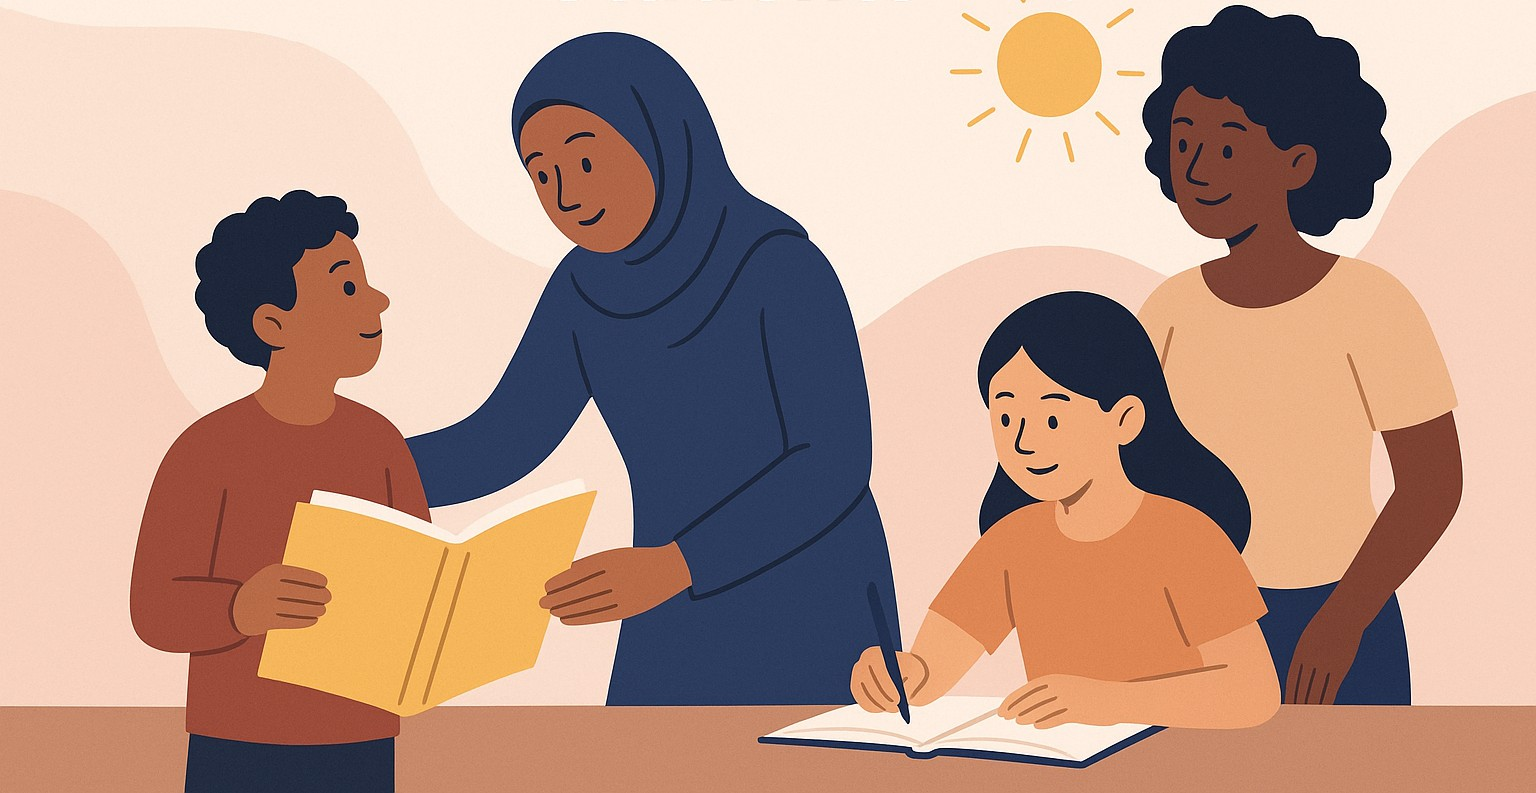
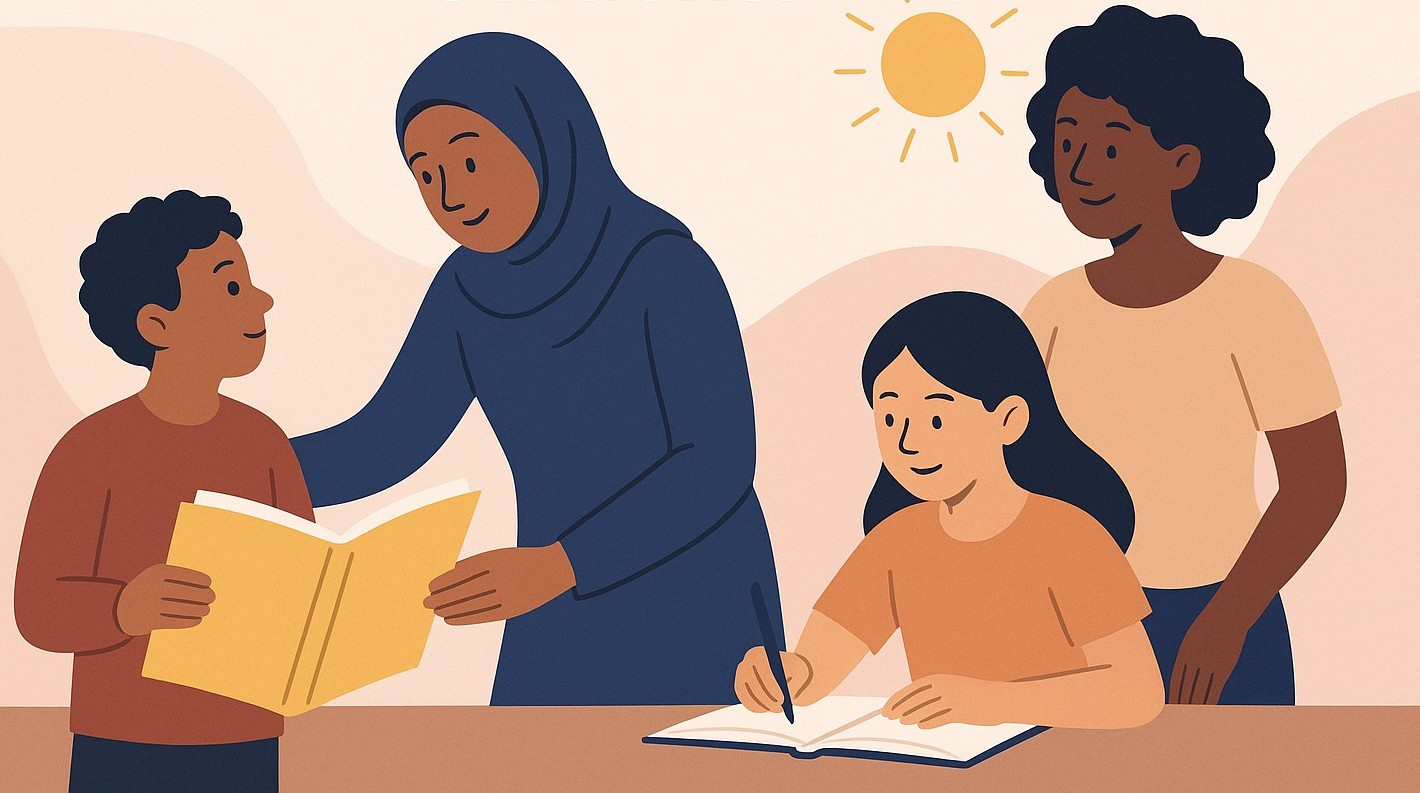
fixed mobile view

diff --git a/frontend/src/pages/HomePage.jsx b/frontend/src/pages/HomePage.jsx
@@ -11,7 +11,7 @@ export default function HomePage() {
       {/* Hero Section */}
       <section
         className="relative min-h-screen flex items-end pb-16 px-6 md:px-16"
-        style={{ backgroundImage: `url(/header_cropped.jpg)`, backgroundSize: 'cover', backgroundPosition: 'bottom' }}
+        style={{ backgroundImage: `url(/header_cropped.jpg)`, backgroundSize: 'cover', backgroundPosition: 'left center' }}
       >
         <div className="absolute inset-0 bg-black opacity-20"></div>
         <div className="relative z-10 max-w-3xl">
